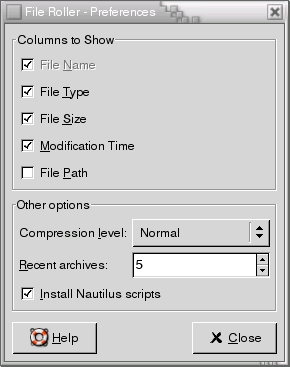
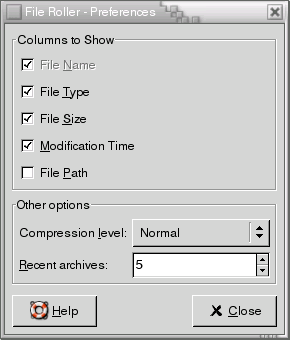
remove the "install scripts" documentation. New screenshot.
2002-08-16  Paolo Bacchilega  <paolo.bacch@tin.it>

        * help/C/file-roller.xml: remove the "install scripts" documentation.
        * help/C/figures/fr-prefs.png: New screenshot.
        * src/dlg-preferences.c (dlg_preferences):
        * src/main.c (initialize_data): remove the "install Nautilus scripts"
        option.

Changed region(s): [[0.0, 0.0, 0.9931, 1.0], [0.0931, 0.0, 0.1241, 0.0294]]

diff --git a/src/dlg-preferences.c b/src/dlg-preferences.c
@@ -50,7 +50,6 @@ typedef struct {
 
 	GtkWidget *show_hide_column[NUMBER_OF_COLUMNS]; /* checkbuttons */
 	GtkWidget *history_len_spinbutton;
-	GtkWidget *install_scripts;
 	GtkWidget *compression_optionmenu;
 } DialogData;
 
@@ -97,17 +96,6 @@ apply_cb (GtkWidget  *widget,
 	preferences.max_history_len = gtk_spin_button_get_value_as_int (GTK_SPIN_BUTTON (data->history_len_spinbutton));
 	window_update_history_list (data->window);
 	data->window->compression = opt_menu_get_active_idx (data->compression_optionmenu);
-}
-
-
-static void
-install_scripts_cb (GtkWidget  *widget, 
-		    DialogData *data)
-{
-	if (gtk_toggle_button_get_active (GTK_TOGGLE_BUTTON (data->install_scripts)))
-		install_scripts ();
-	else
-		remove_scripts ();
 }
 
 
@@ -187,7 +175,6 @@ dlg_preferences (GtkWidget *caller,
 	data->show_hide_column[COLUMN_PATH] = glade_xml_get_widget (data->gui, "path_checkbutton");
 
         data->history_len_spinbutton = glade_xml_get_widget (data->gui, "history_len_spinbutton");
-	data->install_scripts = glade_xml_get_widget (data->gui, "install_scripts_checkbutton");
 	data->compression_optionmenu = glade_xml_get_widget (data->gui, "compression_optionmenu");
 
         btn_close = glade_xml_get_widget (data->gui, "p_close_button");
@@ -203,7 +190,6 @@ dlg_preferences (GtkWidget *caller,
 
 	gtk_spin_button_set_value (GTK_SPIN_BUTTON (data->history_len_spinbutton),
 				   (gfloat) preferences.max_history_len);
-	gtk_toggle_button_set_active (GTK_TOGGLE_BUTTON (data->install_scripts), preferences.scripts_installed);
 
 	gtk_option_menu_set_history (GTK_OPTION_MENU (data->compression_optionmenu), window->compression);
 
@@ -229,11 +215,6 @@ dlg_preferences (GtkWidget *caller,
 					  "toggled",
 					  G_CALLBACK (apply_cb),
 					  data);
-
-	g_signal_connect (G_OBJECT (data->install_scripts),
-			  "toggled",
-			  G_CALLBACK (install_scripts_cb),
-			  data);
 
 	/* run dialog. */
 

diff --git a/src/dlg-add.c b/src/dlg-add.c
@@ -102,6 +102,30 @@ open_file_ok_cb (GtkWidget *w,
 	path = remove_ending_separator (file_sel_path);
 	base_dir = remove_level_from_path (path);
 
+	/* check directory permissions. */
+
+	if (path_is_dir (base_dir) 
+	    && access (base_dir, R_OK | X_OK) != 0) {
+		GtkWidget *d;
+		char      *utf8_path;
+
+		utf8_path = g_locale_to_utf8 (base_dir, -1, NULL, NULL, NULL);
+		d = gtk_message_dialog_new (GTK_WINDOW (window->app),
+					    GTK_DIALOG_DESTROY_WITH_PARENT,
+					    GTK_MESSAGE_ERROR,
+					    GTK_BUTTONS_CLOSE,
+					    _("You don't have the right permissions to read files from folder \"%s\""),
+					    utf8_path);
+		gtk_dialog_run (GTK_DIALOG (d));
+		gtk_widget_destroy (GTK_WIDGET (d));
+		g_free (utf8_path);
+
+		g_free (base_dir);
+		g_free (path);
+
+		return FALSE;
+	}
+
 	window_set_add_default_dir (window, base_dir);
 
 	update = gtk_toggle_button_get_active (GTK_TOGGLE_BUTTON (data->add_if_newer_checkbutton));

diff --git a/src/dlg-extract.c b/src/dlg-extract.c
@@ -161,14 +161,19 @@ ok_clicked_cb (GtkWidget  *widget,
 	if (path_is_dir (extract_to_dir) 
 	    && access (extract_to_dir, R_OK | W_OK | X_OK) != 0) {
 		GtkWidget *d;
+		char      *utf8_path;
+
+		utf8_path = g_locale_to_utf8 (extract_to_dir, -1, NULL, NULL, NULL);
 		d = gtk_message_dialog_new (GTK_WINDOW (window->app),
 					    GTK_DIALOG_DESTROY_WITH_PARENT,
 					    GTK_MESSAGE_ERROR,
 					    GTK_BUTTONS_CLOSE,
-					    _("You don't have the right permissions to extract archive in the folder \"%s\""),
-					    extract_to_dir);
+					    _("You don't have the right permissions to extract archives in the folder \"%s\""),
+					    utf8_path);
 		gtk_dialog_run (GTK_DIALOG (d));
 		gtk_widget_destroy (GTK_WIDGET (d));
+		g_free (utf8_path);
+
 		g_free (extract_to_dir);
 
 		return;

diff --git a/src/menu.h b/src/menu.h
@@ -309,9 +309,9 @@ GnomeUIInfo arrange_menu[] = {
 enum {
 	VIEW_MENU_STOP,
 	VIEW_MENU_SEP1,
-	VIEW_MENU_SORT_LIST,
-	VIEW_MENU_SEP2,
 	VIEW_MENU_VIEW_LIST,
+	VIEW_MENU_SEP2,
+	VIEW_MENU_SORT_LIST,
 	VIEW_MENU_SEP3,
 	VIEW_MENU_LAST_OUTPUT
 };
@@ -325,11 +325,11 @@ GnomeUIInfo view_menu[] = {
 
 	GNOMEUIINFO_SEPARATOR,
 
-	GNOMEUIINFO_SUBTREE (N_("_Arrange Files"), arrange_menu),
+	GNOMEUIINFO_RADIOLIST (view_list),
 
 	GNOMEUIINFO_SEPARATOR,
 
-	GNOMEUIINFO_RADIOLIST (view_list),
+	GNOMEUIINFO_SUBTREE (N_("_Arrange Files"), arrange_menu),
 
 	GNOMEUIINFO_SEPARATOR,
 

diff --git a/src/preferences.c b/src/preferences.c
@@ -114,8 +114,6 @@ preferences_load ()
 
 	preferences.install_scripts = get_bool_with_default (
 		"file-roller/Main/Install Scripts", TRUE);
-	preferences.scripts_installed = get_bool_with_default (
-		"file-roller/Main/Scripts Installed", FALSE);
 }
 
 
@@ -163,8 +161,6 @@ preferences_save ()
 
 	gnome_config_set_bool ("file-roller/Main/Install Scripts",
 			       preferences.install_scripts);
-	gnome_config_set_bool ("file-roller/Main/Scripts Installed",
-			       preferences.scripts_installed);
 
 	gnome_config_sync ();
 }

diff --git a/src/main.c b/src/main.c
@@ -161,7 +161,6 @@ install_scripts ()
 	g_free (dest_dir);
 
 	preferences.install_scripts = FALSE;
-	preferences.scripts_installed = TRUE;
 }
 
 
@@ -184,8 +183,6 @@ remove_scripts ()
 	}
 
 	g_free (dest_dir);
-
-	preferences.scripts_installed = FALSE;
 }
 
 

diff --git a/src/preferences.h b/src/preferences.h
@@ -55,8 +55,6 @@ typedef struct {
 
 	gboolean          install_scripts;     /* first time automatic 
 						* installation. */
-	gboolean          scripts_installed;   /* whether the scripts are
-						* instaleld. */
 
 	/* Extraction options */
 
